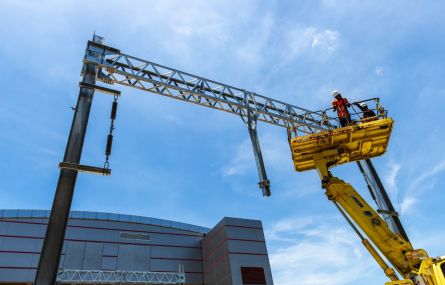
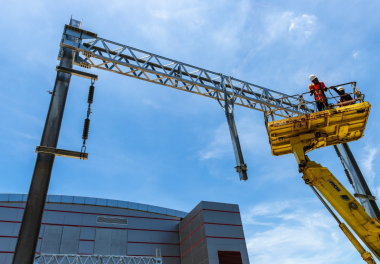
commit

diff --git a/overhead.html b/overhead.html
@@ -2,11 +2,11 @@
 <html>
     <head>
         <meta name="viewport" content="width=device-width, initial-scale=1.0">
-        <title>Signalling Solutions | Xenix Electech Ltd.</title>
+        <title>Overhead Catenary System | Xenix Electech Ltd.</title>
         <link rel="icon" href="images/mini-logo.png" type="image/png" sizes="16x16">
         <link href="https://fonts.googleapis.com/css2?family=Poppins:wght@200;300;400;600;700&display=swap" rel="stylesheet">
         <link rel="stylesheet" href="https://maxcdn.bootstrapcdn.com/font-awesome/4.3.0/css/font-awesome.min.css">
-        <link rel="stylesheet" type="text/css" href="css/signalling.css">
+        <link rel="stylesheet" type="text/css" href="css/overhead.css">
     </head>
     <body>
         <!-- ********************** nav ************************ -->
@@ -41,22 +41,21 @@
         <!-- ********************** form ************************ -->
         <main>
             <div class="headsignnalling">
-                <h1>Signalling Solutions</h1>
+                <h1>Overhead Catenary System</h1>
             </div>
             <div class="signalling">
-                <img src="imgproduct/630649.jpg"  class="img1">
+                <img src="imgproduct/630651.jpg"  class="img1">
                 <div class="text1">
-                    <h2>Signalling Solutions</h2>
-                    <p>Our signalling technologies significantly increase the capacity, safety and
-                        security of your main line rail network. Benefit from improved energy efficiency
-                        and a more fluid and seamless movement of people and freight</p>
+                    <h2>Overhead Catenary System</h2>
+                    <p>We has the expertise, plant and machineries and the experience of
+                        executing similar works</p>
                 </div>
                 <div class="text2">
-                    <h4>Rail field equipment</h4>
-                    <p>The Thales FieldTrac family of signalling equipment includes axle counters, point
-                        machines, LED signals, automatic warning devices and more.</p>
+                    <p>Project Management, design and engineering, off-shore materials
+                        procurement and supply, preparation of method statements for installation,
+                        lead role in installation, testing and commissioning.</p>
                 </div>
-                <img src="imgproduct/630641.jpg"  class="img2">
+                <img src="imgproduct/630646.jpg"  class="img2">
             </div>
         </main>
 

diff --git a/css/overhead.css b/css/overhead.css
@@ -85,7 +85,7 @@ h6{
 }
 .back .overlay{
   background-image: linear-gradient(rgba(175, 175, 175, 0.733), rgba(146, 146, 146, 0.7),rgba(26, 26, 27, 0.7)),
-              url(https://cdn.prgloo.com/media/b7924f8487564672bf433e0193057b77.jpg?width=1135&height=960);
+              url(https://www.img.in.th/images/618d942e18f5d8b9b39ee2bf4219caf6.png);
   width: 100%;
   height: 100%;
 }
@@ -148,7 +148,7 @@ h6{
     top: 20%;
     right: 10%;
     color: #fff;
-    font-size: 26px;
+    font-size: 24px;
 }
 .signalling{
     margin-top: 8rem;
@@ -185,12 +185,6 @@ h6{
     width: 400px;
     margin-left: 35%;
     margin-top: 10%;
-}
-.signalling .text2 h4{
-    font-size: 18px;
-    font-weight: 200px;
-    font-family: 'Poppins', sans-serif;
-    color: #a80000;
 }
 .signalling .text1 p,.signalling .text2 p{
     font-size: 14px;

diff --git a/css/localproduct.css b/css/localproduct.css
@@ -204,6 +204,7 @@
     text-decoration: none;
     display: inline-block;
     padding: 10px 16px;
+    margin-top: 3%;
   }
   
   .prenext a:hover {
@@ -244,7 +245,7 @@
     color: #fff;
     background-color: #2e2e2e;
     z-index: -5;
-    margin-top: 15%;
+    margin-top: 8%;
   }
   .footer > *{
     flex: 1 100%;
